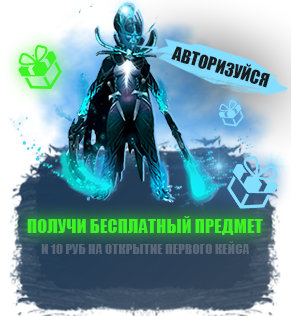
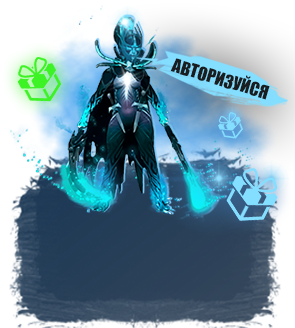
update

diff --git a/css/index.css b/css/index.css
@@ -164,11 +164,53 @@
     width: 643px;
     height: 292px;
     margin: 0 auto;
-    padding: 193px 114px 83px 282px;
+    padding: 120px 49px 75px 221px;
     font-size: 16px;
     color: #ffffff;
     font-family: Plumb-L;
     text-transform: uppercase;
+    display: flex;
+    flex-direction: column;
+}
+
+.bunner-gift--auth {
+    background-image: url(../img/banner-bonus-auth.png);
+}
+
+.bunner-gift__header {
+    color: #3df225;
+    font-family: Plumb-b;
+    font-size: 31px;
+    text-shadow: 0px 0px 15px #3df225;
+    line-height: 1.3;
+    letter-spacing: 1.1px;
+    text-align: center;
+}
+
+.bunner-gift--auth .bunner-gift__header {
+    font-size: 25px;
+}
+
+.bunner-gift__text {
+    color: rgba(255, 255, 255, 0.15);
+    font-family: Plumb-b;
+    font-size: 16px;
+    text-align: center;
+}
+
+.bunner-gift__btn {
+    width: 114px;
+    height: 35px;
+    border-radius: 3px;
+    background-color: #1a2c3a;
+    margin: 0 auto;
+    margin-top: auto;
+    text-transform: uppercase;
+}
+
+.bunner-gift__btn:hover {
+    background-color: #00baff;
+    box-shadow: 0px 0 6px 3px rgba(0, 186, 255, 32%);
 }
 
 @media (max-width: 768px) {
@@ -176,9 +218,18 @@
         background-image: url(../img/banner-bonus-tb.png);
         width: 397px;
         height: 379px;
-        padding: 322px 0px 42px 0;
+        padding: 264px 0px 21px 0;
         justify-content: center;
         display: flex;
+    }
+    .bunner-gift--auth {
+        background-image: url(../img/banner-bonus-auth-tb.png);
+    }
+    .bunner-gift__header {
+        font-size: 27px;
+    }
+    .bunner-gift--auth .bunner-gift__header {
+        font-size: 22px;
     }
 }
 
@@ -187,7 +238,22 @@
         background-image: url(../img/banner-bonus-mb.png);
         width: 291px;
         height: 316px;
-        padding: 236px 0px 0 0;
+        padding: 229px 0px 12px 0;
+    }
+    .bunner-gift--auth {
+        background-image: url(../img/banner-bonus-auth-mb.png);
+    }
+    .bunner-gift__header {
+        font-size: 18px;
+    }
+    .bunner-gift__text {
+        font-size: 13px;
+    }
+    .bunner-gift__links span {
+        display: none;
+    }
+    .bunner-gift--auth .bunner-gift__header {
+        font-size: 15px;
     }
 }
 
@@ -195,6 +261,8 @@
     display: flex;
     white-space: nowrap;
     align-items: center;
+    justify-content: center;
+    margin-top: auto;
 }
 
 .bunner-gift-vk {

diff --git a/css/open_new.css b/css/open_new.css
@@ -1310,3 +1310,97 @@
     margin-top: 60px;
     margin-bottom: 60px;
 }
+
+.win-box__take-all {
+    width: 495px;
+    margin: 0 auto;
+    display: flex;
+    flex-wrap: wrap;
+    background-image: url(../img/take-all.png);
+    background-position: center;
+    background-repeat: no-repeat;
+    justify-content: center;
+    align-items: center;
+    padding: 23px 0;
+}
+
+.win-box__terms {
+    margin: 0 5px;
+    width: 130px;
+    height: 80px;
+    background-image: linear-gradient(to right, #7bec02, #175e0d);
+    border-radius: 3px;
+    display: flex;
+    align-items: center;
+    justify-content: center;
+}
+
+.win-box__terms-content {
+    background-color: #15181b;
+    border-radius: 3px;
+    width: calc(100% - 2px);
+    height: calc(100% - 2px);
+    display: flex;
+    justify-content: space-evenly;
+    align-items: center;
+    flex-direction: column;
+}
+
+.terms__text {
+    color: #64cd05;
+    font-family: Plumb-B;
+    font-size: 16px;
+}
+
+.terms__cost {
+    color: #ffffff;
+    font-family: Plumb-B;
+    font-size: 16px;
+}
+
+.terms__cost-lb {
+    color: #f4441a;
+    font-family: Plumb-B;
+    font-size: 16px;
+    display: flex;
+}
+
+.cost-lb__icon {
+    margin-left: 5px;
+}
+
+.win-box__button {
+    margin: 0 5px;
+}
+
+.win-box__btn {
+    width: 245px;
+    height: 35px;
+    border-radius: 3px;
+    background-color: #1a2c3a;
+    color: #ffffff;
+    text-align: center;
+    margin: 10px 0;
+}
+
+.win-box__btn:hover {
+    background-color: #00baff;
+    box-shadow: 0px 0 6px 3px rgba(0, 186, 255, 32%);
+}
+
+@media (max-width: 520px) {
+    .win-box__take-all {
+        width: 90%;
+        background-image: none;
+        margin: 0 auto;
+    }
+    .win-box__terms {
+        width: 100%;
+    }
+    .win-box__button {
+        width: 100%;
+    }
+    .win-box__btn {
+        width: 100%;
+    }
+}

diff --git a/index.php b/index.php
@@ -316,7 +316,14 @@ include_once('m/auth.php');
 					<?php }?>
 
 					<div class="bunner-gift">
-						<div class="bunner-gift__links">Войти через: <a href="" class="bunner-gift-vk" data-toggle="modal" data-target="#free-bonus" >VK</a> <a href="" class="bunner-gift-steam" data-toggle="modal" data-target="#free-bonus">STEAM</a></div>
+					<p class="bunner-gift__header">Получи бесплатный предмет</p>
+					<p class="bunner-gift__text"> И получи 10 руб на открытие первого кейса</p>
+						<div class="bunner-gift__links">Войти <span>через</span>	: <a href="" class="bunner-gift-vk" data-toggle="modal" data-target="#free-bonus" >VK</a> <a href="" class="bunner-gift-steam" data-toggle="modal" data-target="#free-bonus">STEAM</a></div>
+					</div>
+					<div class="bunner-gift bunner-gift--auth">
+					<p class="bunner-gift__header">Забери свой бесплатный предмет</p>
+					<p class="bunner-gift__text"> И получи 10 руб на открытие первого кейса</p>
+						<button class="site-btn bunner-gift__btn">забрать</button>
 					</div>
 
 

diff --git a/open-win.php b/open-win.php
@@ -185,7 +185,20 @@ include_once('m/auth.php');
 
 
                     </div>
+					<div class="win-box__take-all">
+						<div class="win-box__terms">
+							<div class="win-box__terms-content">				
+								<p class="terms__text">Продать все за:</p>
+								<p class="terms__cost">1118р</p>
+								<p class="terms__cost-lb">1118 <span class="login__btn login__btn--LB cost-lb__icon"> LB </span></p>
+							</div>
 
+						</div>	
+						<div class="win-box__button">
+							<button class="site-btn win-box__btn">Все в контракт</button>
+							<button class="site-btn win-box__btn">Попробовать заново</button>
+						</div>
+					</div>
                 </section>
 
 
